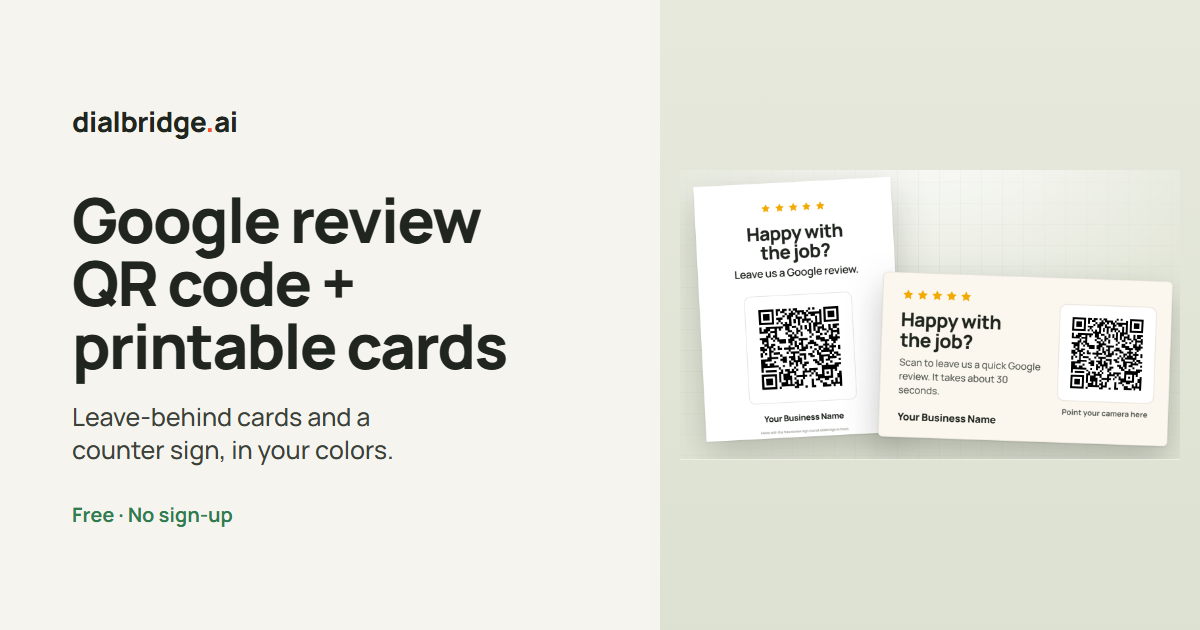
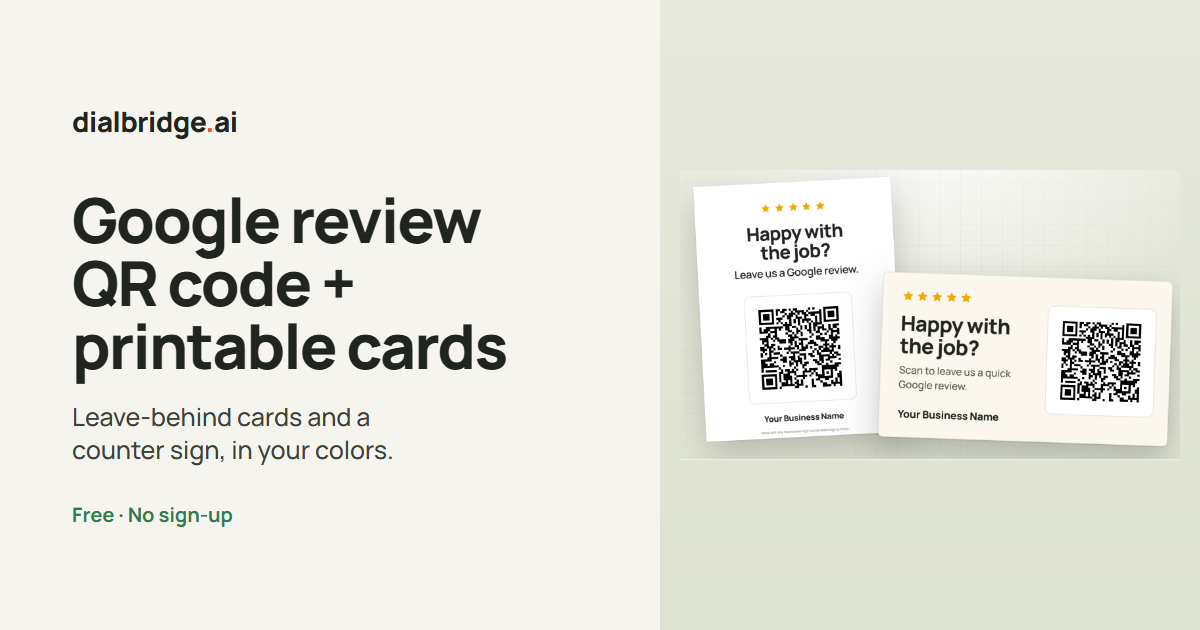
Review card: cleaner layout

Changed region(s): [[0.74, 0.4524, 0.9558, 0.6937]]

diff --git a/tools/google-review-link-generator/index.html b/tools/google-review-link-generator/index.html
@@ -456,6 +456,14 @@ h1,h2,h3{letter-spacing:-.03em;line-height:1.04;margin:0;font-weight:700;text-wr
 .after.single{grid-template-columns:1fr;max-width:640px;margin-inline:auto}
 .rs-h{text-wrap:balance}
 .rs-b{padding-top:5cqw}
+/* card, round 3: less text, bigger QR, long names shrink instead of wrapping into the line above */
+.rcard{grid-template-columns:minmax(0,1fr) 37cqw;gap:5cqw;padding:6cqw 5.5cqw 6cqw 6.5cqw}
+.rc-h{font-size:7.2cqw;margin-top:3.2cqw}
+.rc-p{font-size:3.5cqw;margin-top:2.2cqw;-webkit-line-clamp:2}
+.rc-b{padding-top:3cqw;font-size:3.6cqw}
+.rc-b.l{font-size:3.1cqw}
+.rc-b.xl{font-size:2.7cqw}
+.rc-qb{padding:2cqw}
 </style>
 <script type="application/ld+json">{"@context":"https://schema.org","@graph":[{"@type":"WebApplication","@id":"https://matviykorsunskiy.me/tools/google-review-link-generator/#app","name":"Google review link generator","url":"https://matviykorsunskiy.me/tools/google-review-link-generator/","description":"Get the link that opens your Google review box in 20 seconds. Search your business, copy the link and text it after a job. Free, no sign-up.","applicationCategory":"BusinessApplication","operatingSystem":"Any (web browser)","isAccessibleForFree":true,"offers":{"@type":"Offer","price":"0","priceCurrency":"USD"},"publisher":{"@type":"Organization","name":"Dialbridge","url":"https://dialbridge.ai/","logo":"https://dialbridge.ai/apple-touch-icon.png"},"featureList":["Search a business by name","Direct Google review link","Review request text to copy"]},{"@type":"HowTo","name":"How to get your Google review link","step":[{"@type":"HowToStep","position":1,"text":"Type your business name and city in the search box."},{"@type":"HowToStep","position":2,"text":"Pick your business from the list."},{"@type":"HowToStep","position":3,"text":"Copy your review link and test it once on your phone."}]},{"@type":"FAQPage","mainEntity":[{"@type":"Question","name":"Is this Google review link generator free?","acceptedAnswer":{"@type":"Answer","text":"Yes. There is no sign-up and no limit on how many links you make. We only use the business name you type to find the listing on Google."}},{"@type":"Question","name":"Do I need to own the Google Business Profile?","acceptedAnswer":{"@type":"Answer","text":"No. The review link works for any business listed on Google, so you can make it even if a web person or an old agency set up the profile. Only the owner can reply to reviews, though."}},{"@type":"Question","name":"Do customers need a Google account to leave a review?","acceptedAnswer":{"@type":"Answer","text":"Yes. Google only takes reviews from people signed in to a Google account. Most Android phones are signed in already, and iPhone users are asked to sign in when they open the link."}},{"@type":"Question","name":"Can I make a link that only lets people leave 5 stars?","acceptedAnswer":{"@type":"Answer","text":"No. No link can do that, and Google does not allow asking only happy customers for reviews (review gating). Ask every customer the same way."}},{"@type":"Question","name":"Will my review link stop working?","acceptedAnswer":{"@type":"Answer","text":"It keeps working as long as your Google listing exists. The link goes straight to Google, not through our servers, so it does not depend on us. If you move or Google merges your listings, make a new link here."}},{"@type":"Question","name":"Is this different from the link in my Google Business Profile?","acceptedAnswer":{"@type":"Answer","text":"Both open the same review box. Google's own link starts with g.page and you need to sign in to the profile to get it. This link is built from your Place ID and works without signing in."}},{"@type":"Question","name":"What if I have more than one location?","acceptedAnswer":{"@type":"Answer","text":"Each location has its own listing and its own review link. Search for each one, and check the address under the name before you pick it."}}]},{"@type":"BreadcrumbList","itemListElement":[{"@type":"ListItem","position":1,"name":"Dialbridge","item":"https://dialbridge.ai/"},{"@type":"ListItem","position":2,"name":"Free tools","item":"https://matviykorsunskiy.me/tools/"},{"@type":"ListItem","position":3,"name":"Google review link","item":"https://matviykorsunskiy.me/tools/google-review-link-generator/"}]}]}</script>
 </head>
@@ -679,7 +687,7 @@ var qrcode=function(){var t=function(t,r){var e=t,n=g[r],o=null,i=0,a=null,u=[],
   // ---------- state ----------
   var SAMPLE_URL = BASE + '/tools/google-review-qr-code/';
   var S = { picked: false, id: '', name: 'Your Business Name', address: '', url: SAMPLE_URL, trade: '', msg: 0, scene: C.scene || 'link',
-    theme: 'cream', custom: '#2d6cdf', logo: '', stars: true, head: 'Happy with the job?', line: 'Scan to leave us a quick Google review. It takes about 30 seconds.',
+    theme: 'cream', custom: '#2d6cdf', logo: '', stars: true, head: 'Happy with the job?', line: 'Scan to leave us a quick Google review.',
     credit: true, cut: true, rel: true };
   var THEMES = {
     cream: { bg: '#fbf7ee', fg: '#20251f', sub: '#4b5148', star: '#f2a900', edge: 'rgba(32,37,31,.08)' },
@@ -705,8 +713,8 @@ var qrcode=function(){var t=function(t,r){var e=t,n=g[r],o=null,i=0,a=null,u=[],
     var t = theme(), top = S.logo ? '<img class="rc-logo" src="' + S.logo + '" alt="">' : (S.stars ? '<div class="rc-stars" style="color:' + t.star + '">' + STARS + '</div>' : '<div></div>');
     return '<div class="rcard" style="background:' + t.bg + ';color:' + t.fg + ';box-shadow:inset 0 0 0 1px ' + t.edge + '">' +
       '<div class="rc-l">' + top + '<div class="rc-h">' + esc(S.head) + '</div><div class="rc-p" style="color:' + t.sub + '">' + esc(S.line) + '</div>' +
-      '<div class="rc-b">' + esc(S.name) + '</div></div>' +
-      '<div class="rc-q"><div class="rc-qb">' + qrSVG(S.url, 'qrm') + '</div><div class="rc-cap" style="color:' + t.sub + '">Point your camera here</div></div></div>';
+      '<div class="rc-b' + (S.name.length > 30 ? ' xl' : S.name.length > 20 ? ' l' : '') + '">' + esc(S.name) + '</div></div>' +
+      '<div class="rc-q"><div class="rc-qb">' + qrSVG(S.url, 'qrm') + '</div></div></div>';
   }
   // The counter sign, a full US Letter page.
   function signHTML() {

diff --git a/tools/google-review-qr-code/index.html b/tools/google-review-qr-code/index.html
@@ -456,6 +456,14 @@ h1,h2,h3{letter-spacing:-.03em;line-height:1.04;margin:0;font-weight:700;text-wr
 .after.single{grid-template-columns:1fr;max-width:640px;margin-inline:auto}
 .rs-h{text-wrap:balance}
 .rs-b{padding-top:5cqw}
+/* card, round 3: less text, bigger QR, long names shrink instead of wrapping into the line above */
+.rcard{grid-template-columns:minmax(0,1fr) 37cqw;gap:5cqw;padding:6cqw 5.5cqw 6cqw 6.5cqw}
+.rc-h{font-size:7.2cqw;margin-top:3.2cqw}
+.rc-p{font-size:3.5cqw;margin-top:2.2cqw;-webkit-line-clamp:2}
+.rc-b{padding-top:3cqw;font-size:3.6cqw}
+.rc-b.l{font-size:3.1cqw}
+.rc-b.xl{font-size:2.7cqw}
+.rc-qb{padding:2cqw}
 </style>
 <script type="application/ld+json">{"@context":"https://schema.org","@graph":[{"@type":"WebApplication","@id":"https://matviykorsunskiy.me/tools/google-review-qr-code/#app","name":"Google review QR code and printable cards","url":"https://matviykorsunskiy.me/tools/google-review-qr-code/","description":"Make a Google review QR code and print review cards, a counter sign or truck decal. Pick your colors. Free, no sign-up, never expires.","applicationCategory":"BusinessApplication","operatingSystem":"Any (web browser)","isAccessibleForFree":true,"offers":{"@type":"Offer","price":"0","priceCurrency":"USD"},"publisher":{"@type":"Organization","name":"Dialbridge","url":"https://dialbridge.ai/","logo":"https://dialbridge.ai/apple-touch-icon.png"},"featureList":["Search a business by name","Google review QR code (PNG and SVG)","Printable review cards (Avery 8371 layout)","Printable counter sign","Your colors and wording"]},{"@type":"HowTo","name":"How to make a Google review QR code","step":[{"@type":"HowToStep","position":1,"text":"Type your business name and city in the search box and pick your business."},{"@type":"HowToStep","position":2,"text":"Choose a card color and change the wording if you like."},{"@type":"HowToStep","position":3,"text":"Print the cards or the counter sign, or download the QR code as PNG or SVG."},{"@type":"HowToStep","position":4,"text":"Scan the printed code with your own phone before handing it out."}]},{"@type":"FAQPage","mainEntity":[{"@type":"Question","name":"Is the Google review QR code free?","acceptedAnswer":{"@type":"Answer","text":"Yes. The QR code, the cards and the sign are free with no sign-up. Print as many as you like."}},{"@type":"Question","name":"Does the QR code expire?","acceptedAnswer":{"@type":"Answer","text":"No. It holds your review link directly and does not pass through our servers, so it works for as long as your Google listing exists."}},{"@type":"Question","name":"What size should I print the QR code?","acceptedAnswer":{"@type":"Answer","text":"A QR code scans from about 10 times its width. About 1 inch is right for a business card, 3 to 4 inches for a counter sign, and 10 to 12 inches for a truck."}},{"@type":"Question","name":"Can I change the colors and wording?","acceptedAnswer":{"@type":"Answer","text":"Yes. Pick one of the colors or your own brand color, and change the big and small lines on the card."}},{"@type":"Question","name":"What paper do the cards print on?","acceptedAnswer":{"@type":"Answer","text":"The sheet holds 10 cards in the Avery 8371 and 5371 business card layout. On plain card stock, keep the cut lines on and cut them apart."}},{"@type":"Question","name":"Does Google allow review QR codes?","acceptedAnswer":{"@type":"Answer","text":"Yes. Google offers review QR codes itself. Just do not offer a reward for reviews, and hand the card to every customer, not only the happy ones."}}]},{"@type":"BreadcrumbList","itemListElement":[{"@type":"ListItem","position":1,"name":"Dialbridge","item":"https://dialbridge.ai/"},{"@type":"ListItem","position":2,"name":"Free tools","item":"https://matviykorsunskiy.me/tools/"},{"@type":"ListItem","position":3,"name":"Google review QR code","item":"https://matviykorsunskiy.me/tools/google-review-qr-code/"}]}]}</script>
 </head>
@@ -676,7 +684,7 @@ var qrcode=function(){var t=function(t,r){var e=t,n=g[r],o=null,i=0,a=null,u=[],
   // ---------- state ----------
   var SAMPLE_URL = BASE + '/tools/google-review-qr-code/';
   var S = { picked: false, id: '', name: 'Your Business Name', address: '', url: SAMPLE_URL, trade: '', msg: 0, scene: C.scene || 'link',
-    theme: 'cream', custom: '#2d6cdf', logo: '', stars: true, head: 'Happy with the job?', line: 'Scan to leave us a quick Google review. It takes about 30 seconds.',
+    theme: 'cream', custom: '#2d6cdf', logo: '', stars: true, head: 'Happy with the job?', line: 'Scan to leave us a quick Google review.',
     credit: true, cut: true, rel: true };
   var THEMES = {
     cream: { bg: '#fbf7ee', fg: '#20251f', sub: '#4b5148', star: '#f2a900', edge: 'rgba(32,37,31,.08)' },
@@ -702,8 +710,8 @@ var qrcode=function(){var t=function(t,r){var e=t,n=g[r],o=null,i=0,a=null,u=[],
     var t = theme(), top = S.logo ? '<img class="rc-logo" src="' + S.logo + '" alt="">' : (S.stars ? '<div class="rc-stars" style="color:' + t.star + '">' + STARS + '</div>' : '<div></div>');
     return '<div class="rcard" style="background:' + t.bg + ';color:' + t.fg + ';box-shadow:inset 0 0 0 1px ' + t.edge + '">' +
       '<div class="rc-l">' + top + '<div class="rc-h">' + esc(S.head) + '</div><div class="rc-p" style="color:' + t.sub + '">' + esc(S.line) + '</div>' +
-      '<div class="rc-b">' + esc(S.name) + '</div></div>' +
-      '<div class="rc-q"><div class="rc-qb">' + qrSVG(S.url, 'qrm') + '</div><div class="rc-cap" style="color:' + t.sub + '">Point your camera here</div></div></div>';
+      '<div class="rc-b' + (S.name.length > 30 ? ' xl' : S.name.length > 20 ? ' l' : '') + '">' + esc(S.name) + '</div></div>' +
+      '<div class="rc-q"><div class="rc-qb">' + qrSVG(S.url, 'qrm') + '</div></div></div>';
   }
   // The counter sign, a full US Letter page.
   function signHTML() {

diff --git a/tools/google-place-id-finder/index.html b/tools/google-place-id-finder/index.html
@@ -456,6 +456,14 @@ h1,h2,h3{letter-spacing:-.03em;line-height:1.04;margin:0;font-weight:700;text-wr
 .after.single{grid-template-columns:1fr;max-width:640px;margin-inline:auto}
 .rs-h{text-wrap:balance}
 .rs-b{padding-top:5cqw}
+/* card, round 3: less text, bigger QR, long names shrink instead of wrapping into the line above */
+.rcard{grid-template-columns:minmax(0,1fr) 37cqw;gap:5cqw;padding:6cqw 5.5cqw 6cqw 6.5cqw}
+.rc-h{font-size:7.2cqw;margin-top:3.2cqw}
+.rc-p{font-size:3.5cqw;margin-top:2.2cqw;-webkit-line-clamp:2}
+.rc-b{padding-top:3cqw;font-size:3.6cqw}
+.rc-b.l{font-size:3.1cqw}
+.rc-b.xl{font-size:2.7cqw}
+.rc-qb{padding:2cqw}
 </style>
 <script type="application/ld+json">{"@context":"https://schema.org","@graph":[{"@type":"WebApplication","@id":"https://matviykorsunskiy.me/tools/google-place-id-finder/#app","name":"Google Place ID finder","url":"https://matviykorsunskiy.me/tools/google-place-id-finder/","description":"Find the Google Place ID for any business by name or from a Google Maps link. No API key, no sign-up. Get its review link and QR code too.","applicationCategory":"BusinessApplication","operatingSystem":"Any (web browser)","isAccessibleForFree":true,"offers":{"@type":"Offer","price":"0","priceCurrency":"USD"},"publisher":{"@type":"Organization","name":"Dialbridge","url":"https://dialbridge.ai/","logo":"https://dialbridge.ai/apple-touch-icon.png"},"featureList":["Search a business by name","Google Place ID","Place ID from a Google Maps link","Review link from the Place ID"]},{"@type":"HowTo","name":"How to find a Google Place ID","step":[{"@type":"HowToStep","position":1,"text":"Type the business name and city in the search box."},{"@type":"HowToStep","position":2,"text":"Pick the business from the list."},{"@type":"HowToStep","position":3,"text":"Copy the Place ID."}]},{"@type":"FAQPage","mainEntity":[{"@type":"Question","name":"What does a Google Place ID look like?","acceptedAnswer":{"@type":"Answer","text":"Most business Place IDs start with ChIJ and are about 27 letters, numbers, dashes and underscores long, for example ChIJN1t_tDeuEmsRUsoyG83frY4."}},{"@type":"Question","name":"Do I need a Google API key to find a Place ID?","acceptedAnswer":{"@type":"Answer","text":"Not with this tool. Search by name or paste a Maps link and copy the ID. You only need your own key to call the Google Maps APIs from your own code."}},{"@type":"Question","name":"Is a Place ID the same as a CID?","acceptedAnswer":{"@type":"Answer","text":"No. The CID is a long number used in older Google Maps links. The Place ID is the text ID used by Google's APIs, review links and most apps."}},{"@type":"Question","name":"Can a Place ID change?","acceptedAnswer":{"@type":"Answer","text":"Sometimes. Google says Place IDs can change over time and suggests refreshing ones older than 12 months. If a widget or review link stops working, look the ID up again."}},{"@type":"Question","name":"How do I turn a Place ID into a review link?","acceptedAnswer":{"@type":"Answer","text":"Add it to the end of https://search.google.com/local/writereview?placeid= or let this tool build the link and a QR code for you."}},{"@type":"Question","name":"Can I look up a business I do not own?","acceptedAnswer":{"@type":"Answer","text":"Yes. Place IDs are public, so you can look up any business listed on Google."}}]},{"@type":"BreadcrumbList","itemListElement":[{"@type":"ListItem","position":1,"name":"Dialbridge","item":"https://dialbridge.ai/"},{"@type":"ListItem","position":2,"name":"Free tools","item":"https://matviykorsunskiy.me/tools/"},{"@type":"ListItem","position":3,"name":"Google Place ID finder","item":"https://matviykorsunskiy.me/tools/google-place-id-finder/"}]}]}</script>
 </head>
@@ -630,7 +638,7 @@ var qrcode=function(){var t=function(t,r){var e=t,n=g[r],o=null,i=0,a=null,u=[],
   // ---------- state ----------
   var SAMPLE_URL = BASE + '/tools/google-review-qr-code/';
   var S = { picked: false, id: '', name: 'Your Business Name', address: '', url: SAMPLE_URL, trade: '', msg: 0, scene: C.scene || 'link',
-    theme: 'cream', custom: '#2d6cdf', logo: '', stars: true, head: 'Happy with the job?', line: 'Scan to leave us a quick Google review. It takes about 30 seconds.',
+    theme: 'cream', custom: '#2d6cdf', logo: '', stars: true, head: 'Happy with the job?', line: 'Scan to leave us a quick Google review.',
     credit: true, cut: true, rel: true };
   var THEMES = {
     cream: { bg: '#fbf7ee', fg: '#20251f', sub: '#4b5148', star: '#f2a900', edge: 'rgba(32,37,31,.08)' },
@@ -656,8 +664,8 @@ var qrcode=function(){var t=function(t,r){var e=t,n=g[r],o=null,i=0,a=null,u=[],
     var t = theme(), top = S.logo ? '<img class="rc-logo" src="' + S.logo + '" alt="">' : (S.stars ? '<div class="rc-stars" style="color:' + t.star + '">' + STARS + '</div>' : '<div></div>');
     return '<div class="rcard" style="background:' + t.bg + ';color:' + t.fg + ';box-shadow:inset 0 0 0 1px ' + t.edge + '">' +
       '<div class="rc-l">' + top + '<div class="rc-h">' + esc(S.head) + '</div><div class="rc-p" style="color:' + t.sub + '">' + esc(S.line) + '</div>' +
-      '<div class="rc-b">' + esc(S.name) + '</div></div>' +
-      '<div class="rc-q"><div class="rc-qb">' + qrSVG(S.url, 'qrm') + '</div><div class="rc-cap" style="color:' + t.sub + '">Point your camera here</div></div></div>';
+      '<div class="rc-b' + (S.name.length > 30 ? ' xl' : S.name.length > 20 ? ' l' : '') + '">' + esc(S.name) + '</div></div>' +
+      '<div class="rc-q"><div class="rc-qb">' + qrSVG(S.url, 'qrm') + '</div></div></div>';
   }
   // The counter sign, a full US Letter page.
   function signHTML() {

diff --git a/tools/index.html b/tools/index.html
@@ -456,6 +456,14 @@ h1,h2,h3{letter-spacing:-.03em;line-height:1.04;margin:0;font-weight:700;text-wr
 .after.single{grid-template-columns:1fr;max-width:640px;margin-inline:auto}
 .rs-h{text-wrap:balance}
 .rs-b{padding-top:5cqw}
+/* card, round 3: less text, bigger QR, long names shrink instead of wrapping into the line above */
+.rcard{grid-template-columns:minmax(0,1fr) 37cqw;gap:5cqw;padding:6cqw 5.5cqw 6cqw 6.5cqw}
+.rc-h{font-size:7.2cqw;margin-top:3.2cqw}
+.rc-p{font-size:3.5cqw;margin-top:2.2cqw;-webkit-line-clamp:2}
+.rc-b{padding-top:3cqw;font-size:3.6cqw}
+.rc-b.l{font-size:3.1cqw}
+.rc-b.xl{font-size:2.7cqw}
+.rc-qb{padding:2cqw}
 </style>
 <script type="application/ld+json">{"@context":"https://schema.org","@graph":[{"@type":"CollectionPage","name":"Free tools for home service businesses","url":"https://matviykorsunskiy.me/tools/","description":"Free tools for plumbers, HVAC, garage door, cleaning and other home service businesses: Google review link, review QR code and cards, Place ID finder.","publisher":{"@type":"Organization","name":"Dialbridge","url":"https://dialbridge.ai/","logo":"https://dialbridge.ai/apple-touch-icon.png"},"mainEntity":{"@type":"ItemList","itemListElement":[{"@type":"ListItem","position":1,"url":"https://matviykorsunskiy.me/tools/google-review-link-generator/","name":"Google review link generator"},{"@type":"ListItem","position":2,"url":"https://matviykorsunskiy.me/tools/google-review-qr-code/","name":"Google review QR code and printable cards"},{"@type":"ListItem","position":3,"url":"https://matviykorsunskiy.me/tools/google-place-id-finder/","name":"Google Place ID finder"}]}},{"@type":"BreadcrumbList","itemListElement":[{"@type":"ListItem","position":1,"name":"Dialbridge","item":"https://dialbridge.ai/"},{"@type":"ListItem","position":2,"name":"Free tools","item":"https://matviykorsunskiy.me/tools/"}]}]}</script>
 </head>
